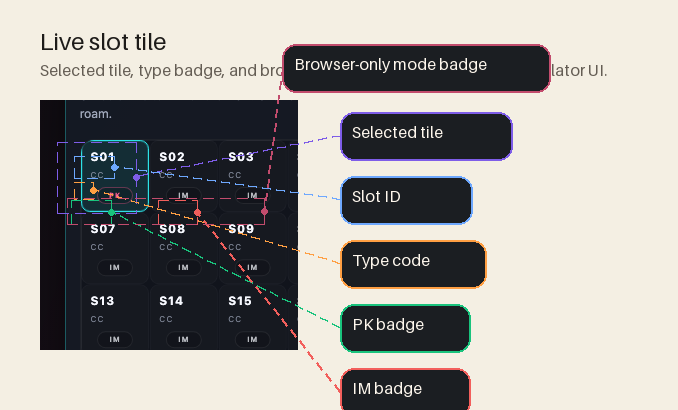
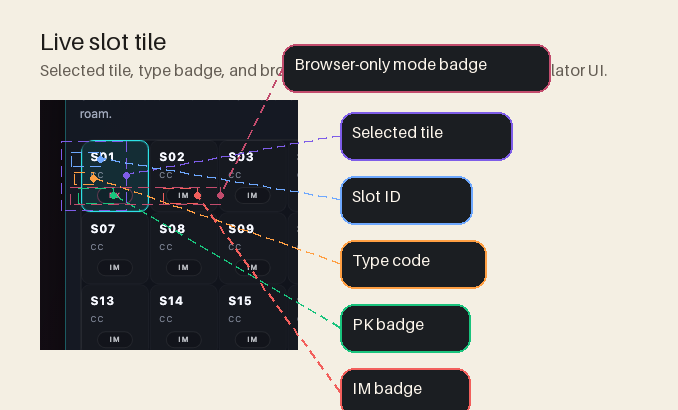
screen shots

diff --git a/tools/generate_workflow_graphics.py b/tools/generate_workflow_graphics.py
@@ -238,12 +238,12 @@ def annotate_slot_tile() -> None:
     ox, oy = 40, 100
     bf = body_font(16)
     label_x = ox + base.width + 42
-    draw_callout(draw, (ox + 17, oy + 42, ox + 96, oy + 113), (label_x, 112, label_x + 172, 160), "Selected tile", PURPLE, bf, dashed_target=True, line_width=2)
-    draw_callout(draw, (ox + 34, oy + 56, ox + 74, oy + 78), (label_x, 176, label_x + 132, 224), "Slot ID", BLUE, bf, dashed_target=True, line_width=2)
-    draw_callout(draw, (ox + 34, oy + 82, ox + 53, oy + 99), (label_x, 240, label_x + 146, 288), "Type code", GOLD, bf, dashed_target=True, line_width=2)
-    draw_callout(draw, (ox + 31, oy + 100, ox + 71, oy + 124), (label_x, 304, label_x + 130, 352), "PK badge", MINT, bf, dashed_target=True, line_width=2)
-    draw_callout(draw, (ox + 118, oy + 100, ox + 157, oy + 124), (label_x, 368, label_x + 130, 416), "IM badge", CORAL, bf, dashed_target=True, line_width=2)
-    draw_callout(draw, (ox + 27, oy + 98, ox + 224, oy + 124), (label_x - 58, 44, label_x + 210, 92), "Browser-only mode badge", ROSE, bf, dashed_target=True, line_width=2)
+    draw_callout(draw, (ox + 21, oy + 41, ox + 86, oy + 110), (label_x, 112, label_x + 172, 160), "Selected tile", PURPLE, bf, dashed_target=True, line_width=2)
+    draw_callout(draw, (ox + 31, oy + 52, ox + 60, oy + 66), (label_x, 176, label_x + 132, 224), "Slot ID", BLUE, bf, dashed_target=True, line_width=2)
+    draw_callout(draw, (ox + 34, oy + 72, ox + 53, oy + 84), (label_x, 240, label_x + 146, 288), "Type code", GOLD, bf, dashed_target=True, line_width=2)
+    draw_callout(draw, (ox + 38, oy + 88, ox + 73, oy + 103), (label_x, 304, label_x + 130, 352), "PK badge", MINT, bf, dashed_target=True, line_width=2)
+    draw_callout(draw, (ox + 123, oy + 88, ox + 157, oy + 103), (label_x, 368, label_x + 130, 416), "IM badge", CORAL, bf, dashed_target=True, line_width=2)
+    draw_callout(draw, (ox + 30, oy + 87, ox + 180, oy + 104), (label_x - 58, 44, label_x + 210, 92), "Browser-only mode badge", ROSE, bf, dashed_target=True, line_width=2)
     save_ui(canvas, "slot-tile-annotated.png")
 
 
